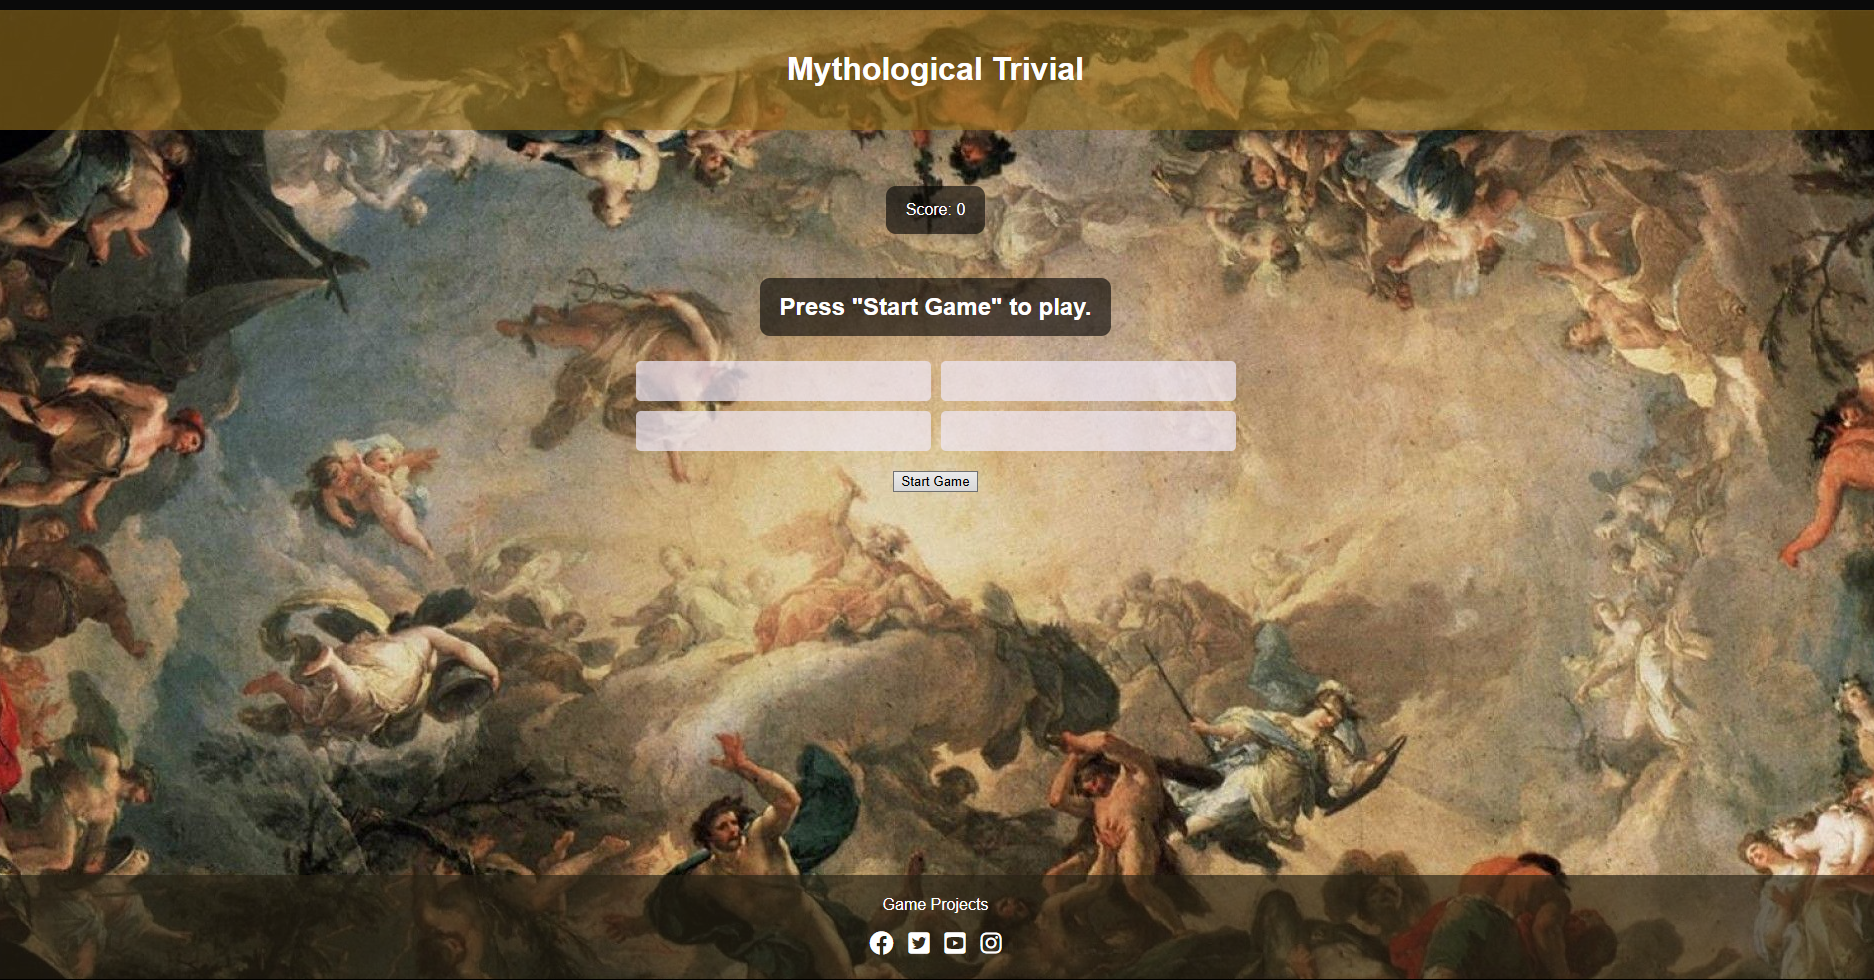
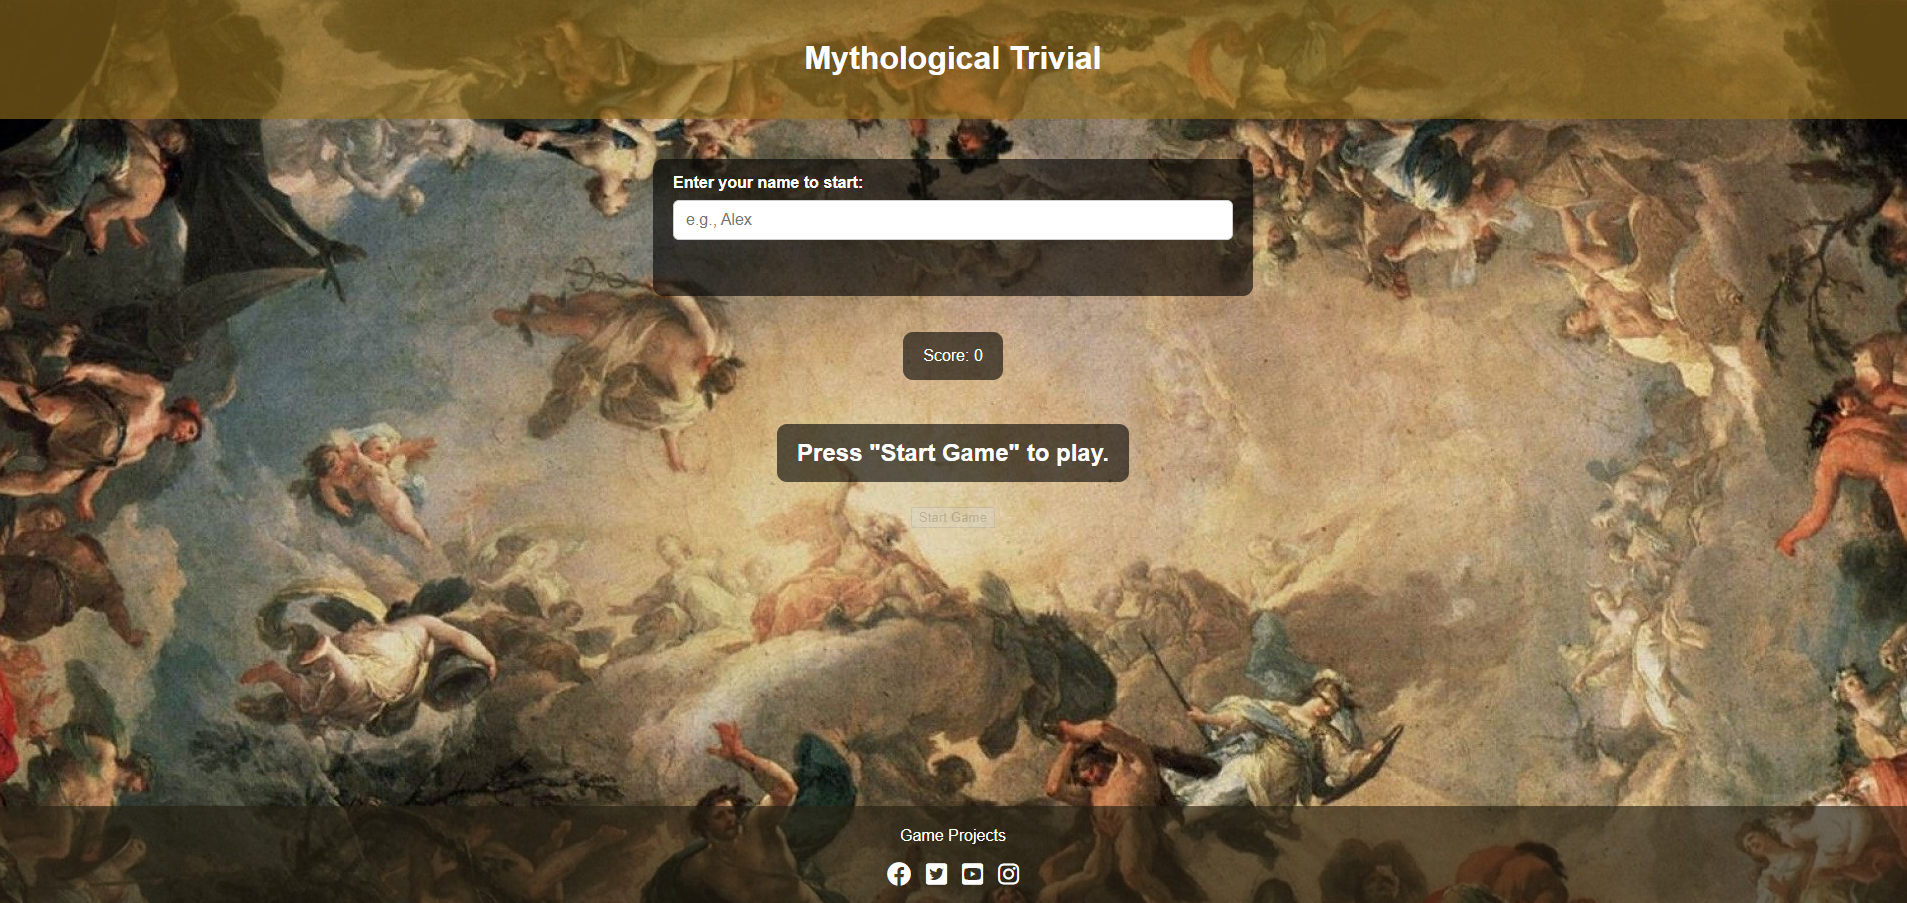
README update

diff --git a/README.md b/README.md
@@ -11,8 +11,8 @@ The game presents 10 questions, each with 4 possible answers. Your score is upda
 ## Features
 
 ### Gameplay
-
-- **Start Game**: Clicking on "Start Game" begins the quiz.
+- **Player name**: To register the player's name, fill the name box.
+- **Start Game**: Once with the right name filled clicking on "Start Game" begins the quiz.
 - **Interactive Questions**: Each question offers 4 multiple-choice answers.
 ![Game Screenshot](docs/images/gameplay.png)
 - **Immediate Feedback**: After selecting an answer, an alert tells you if you are correct or shows the correct answer.
@@ -23,22 +23,25 @@ The game presents 10 questions, each with 4 possible answers. Your score is upda
 - **Game End Screen**: When all 10 questions are answered, your final score is displayed and the game resets so you can play again.
 ![End Screen](docs/images/gameover.png)
 
-### Design
+## Defensive Design & Accessibility
 
+No early interaction: Answer buttons are disabled (and/or hidden) until the game starts.
+
+Shuffled answers: Options are randomized per question to avoid pattern memorization.
+
+Dynamic updates: Question text and score update live on screen.
+
+(Optional) Player name before starting, with basic validation and error messaging via aria-live.
+
+### Design
+- Header with the game title
+![Header Screenshot](docs/images/header.png)
 - Clean and simple interface.
 - Responsive layout adaptable to desktop and mobile.
 - Mythology-themed background.
 - Footer with links to social media.
-
----
-
-## Screenshots
-
-### Header
-![Header Screenshot](docs/images/header.png)
-
-### Footer
 ![Footer Screenshot](docs/images/footer.png)
+
 
 ---
 
@@ -52,7 +55,7 @@ The game presents 10 questions, each with 4 possible answers. Your score is upda
 
 ## Deployment
 
-You can see the code here:  
+Live Site (GitHub Pages): 
 [GitHub Repository](https://github.com/Javi333afg/Mythological-Trivial)
 
 
@@ -60,12 +63,44 @@ You can see the code here:
 
 ## Testing
 
-- I tested that this page works in different browsers: Chrome, Firefox, Safari.
-- I confirmed that the social media links open in new tabs.
-- I tested in the W3C Markup Validator and CSS Validator.
-![Test](docs/images/W3C.png)
+- **Functional tests**
+
+- No interaction before start
+Steps: Load the page → Try clicking answers.
+Expected: Answer buttons remain disabled/hidden until the game starts. 
+
+- Start game flow
+Steps: Click Start Game (and, if enabled, enter a valid name first).
+Expected: First question appears; buttons enabled; score resets to 0. 
+
+- Answer handling
+Steps: Choose an answer (wrong, then correct).
+Expected: Immediate feedback via alerts; score only increases on correct answers. 
+
+- Progression & end
+Steps: Answer all questions.
+Expected: Final score alert; answers hide/disable; you can start a new game. 
+
+- Replay
+Steps: Click Start Game again.
+Expected: Game resets to question 1 with score 0. 
+
+- (Optional) Player name validation
+Steps: Enter fewer than 2 characters → Start stays disabled; enter ≥ 2 → Start enabled.
+Expected: Defensive design prevents starting without a valid name; error message announced. 
+
+- W3C Markup Validator and CSS Validator.
+![Test](docs/images/W3C.png) 
+![Test](docs/images/CSS.png)
+
 - I tested with lighthouse the website.
 ![Perfomance](docs/images/perfomance.png)
+
+**Cross-browser/device**
+
+Tested on Chrome, Firefox, Safari (desktop).
+
+Checked responsive layout with mobile presets in DevTools (phone/tablet).
 
 ## Credits
 
